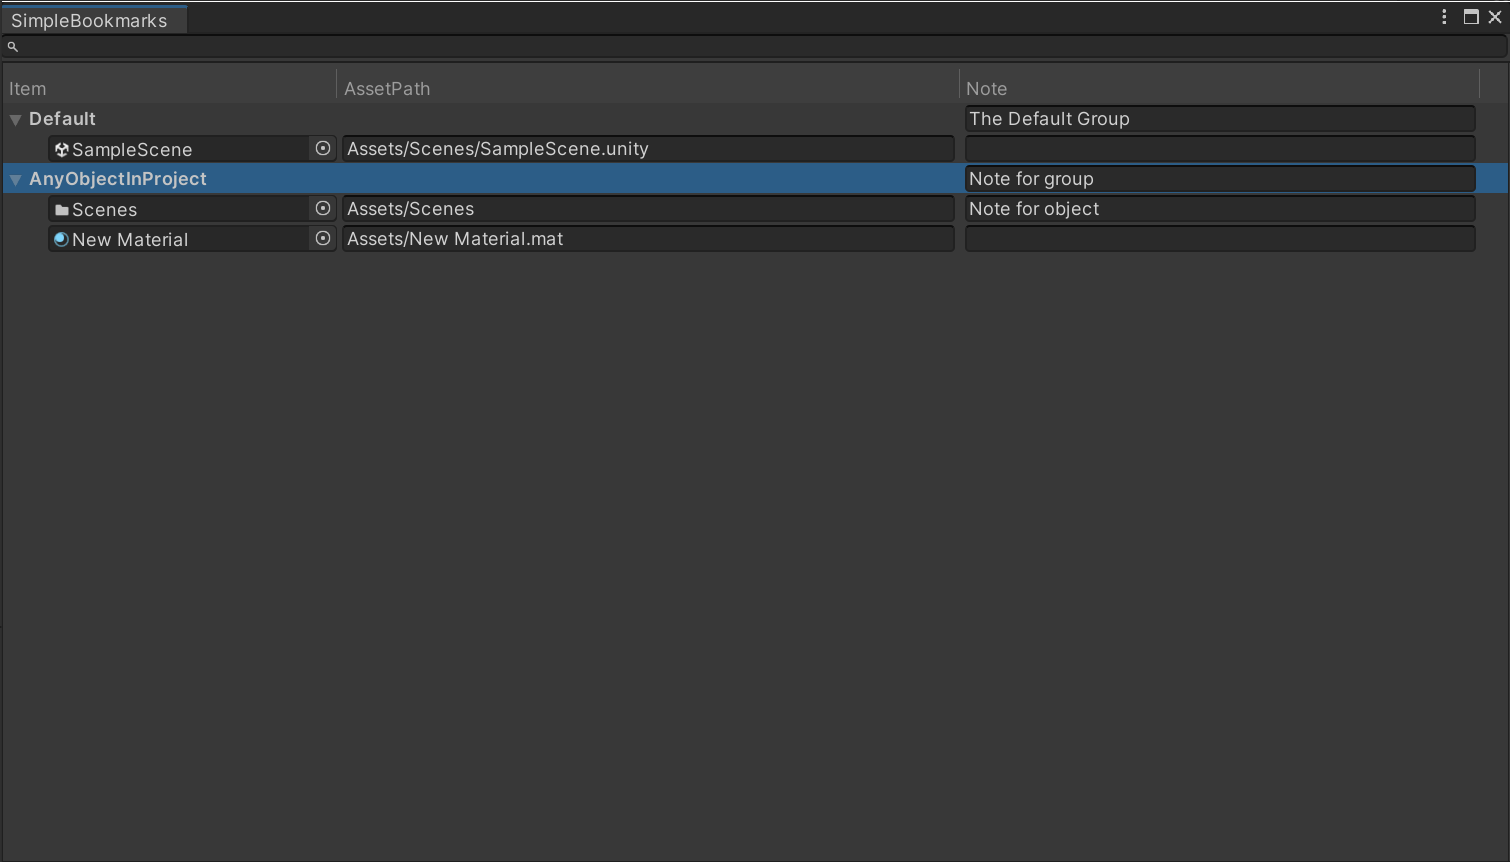
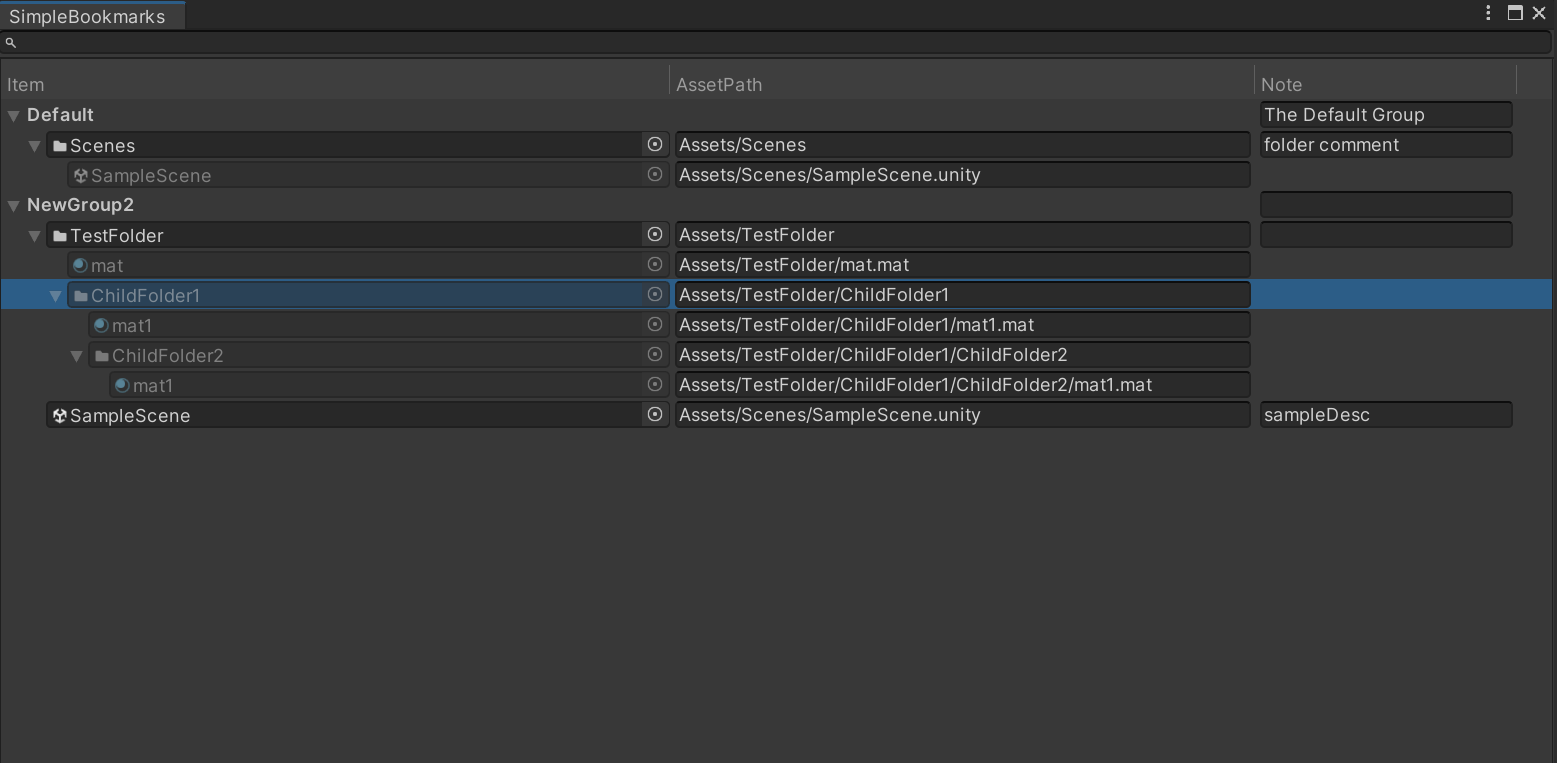
[Add] Display object recursively in saved folder.

diff --git a/Editor/BookmarksTreeview.cs b/Editor/BookmarksTreeview.cs
@@ -1,10 +1,13 @@
 using System;
 using System.Collections.Generic;
+using System.Diagnostics;
+using System.IO;
 using System.Linq;
 using System.Text.RegularExpressions;
 using UnityEditor;
 using UnityEditor.IMGUI.Controls;
 using UnityEngine;
+using Object = UnityEngine.Object;
 
 namespace SimpleBookmarks.Editor 
 {
@@ -106,7 +109,7 @@ namespace SimpleBookmarks.Editor
             
             foreach (var group in _bookmarksContainer.groups)
             {
-                var groupItem = new GroupViewItem() 
+                var groupItem = new GroupViewItem
                 {
                     id = group.GetHashCode(),
                     displayName = group.name,
@@ -117,17 +120,61 @@ namespace SimpleBookmarks.Editor
                 
                 foreach (var item in group.items)
                 {
-                    groupItem.AddChild(new ObjectViewItem()
+                    var objectViewItem = new ObjectViewItem
                     {
                         id = item.Obj ? item.Obj.GetInstanceID() : int.MinValue,
                         Data = item
-                    });
+                    };
+                    groupItem.AddChild(objectViewItem);
+
+                    var assetPath = AssetDatabase.GetAssetPath(item.Obj);
+                    if (AssetDatabase.IsValidFolder(assetPath))
+                    {
+                        AddFolderAssetsRecursive(objectViewItem, assetPath);
+                    }
                 }
             }
             
             SetupDepthsFromParentsAndChildren(root);
             
             return base.BuildRows(root);
+        }
+        
+        private void AddFolderAssetsRecursive(TreeViewItem parent, string folderPath)
+        {
+            var dir = new DirectoryInfo(folderPath);
+            var files = dir.GetFiles().Where(p=>!p.Extension.Equals(".meta"));
+            foreach (var f in files)
+            {
+                var p = Path.GetRelativePath($"{Application.dataPath}/../", f.FullName);
+                var obj = AssetDatabase.LoadAssetAtPath<Object>(p);
+                if (obj == null) 
+                    continue;
+                var viewItem = new SubObjectViewItem(obj)
+                {
+                    id = GUID.Generate().GetHashCode(),
+                    displayName = obj.name
+                };
+                parent.AddChild(viewItem);
+            }
+
+            var subDirs = dir.GetDirectories();
+            foreach (var d in subDirs)
+            {
+                var p = Path.GetRelativePath($"{Application.dataPath}/../", d.FullName);
+                if (!AssetDatabase.IsValidFolder(p))
+                    continue;
+                var folder = AssetDatabase.LoadAssetAtPath<DefaultAsset>(p);
+                if (folder == null) 
+                    continue;
+                var viewItem = new SubObjectViewItem(folder)
+                {
+                    id = folder.GetHashCode(),
+                    displayName = folder.name
+                };
+                parent.AddChild(viewItem);
+                AddFolderAssetsRecursive(viewItem, p);
+            }
         }
 
         protected override void SearchChanged(string newSearch)
@@ -170,7 +217,7 @@ namespace SimpleBookmarks.Editor
                 _bookmarksContainer.Save();
             }
         }
-
+        
         protected override void ContextClicked()
         {
             var genericMenu = new GenericMenu();
@@ -190,7 +237,7 @@ namespace SimpleBookmarks.Editor
             {
                 var path = $"{Application.dataPath}/../{BookmarksContainer.DataPath}";
 #if UNITY_EDITOR_WIN
-                System.Diagnostics.Process.Start("explorer.exe", $"/select,{path.Replace("/", "\\")}");
+                Process.Start("explorer.exe", $"/select,{path.Replace("/", "\\")}");
 #else
                 System.Diagnostics.Process.Start("open", $"{path}");
 #endif
@@ -245,13 +292,11 @@ namespace SimpleBookmarks.Editor
                     switch (columns)
                     {
                         case EColumns.Object:
-                        {
                             var objectRect = rect;
                             objectRect.x += indent;
                             objectRect.width = rect.width - indent;
                             EditorGUI.LabelField(objectRect, groupViewItem.Data.name, EditorStyles.boldLabel);
                             args.rowRect = rect;
-                        }
                             break;
                         case EColumns.Note:
                             groupViewItem.Data.note = EditorGUI.TextField(rect, groupViewItem.Data.note);
@@ -262,12 +307,10 @@ namespace SimpleBookmarks.Editor
                     switch (columns)
                     {
                         case EColumns.Object:
-                        {
                             var objectRect = rect;
                             objectRect.x += indent;
                             objectRect.width = rect.width - indent;
-                            objectViewItem.Data.Obj = EditorGUI.ObjectField(objectRect, objectViewItem.Data.Obj, typeof(UnityEngine.Object), false);
-                        }
+                            objectViewItem.Data.Obj = EditorGUI.ObjectField(objectRect, objectViewItem.Data.Obj, typeof(Object), false);
                             break;
                         case EColumns.AssetPath:
                             EditorGUI.SelectableLabel(rect, AssetDatabase.GetAssetPath(objectViewItem.Data.Obj), EditorStyles.textField);
@@ -275,8 +318,23 @@ namespace SimpleBookmarks.Editor
                         case EColumns.Note:
                             objectViewItem.Data.note = EditorGUI.TextField(rect, objectViewItem.Data.note);
                             break;
-                        default:
-                            throw new ArgumentOutOfRangeException(nameof(columns), columns, null);
+                    }
+                    break;
+                case SubObjectViewItem objectViewItem:
+                    switch (columns)
+                    {
+                        case EColumns.Object:
+                            var objectRect = rect;
+                            objectRect.x += indent;
+                            objectRect.width = rect.width - indent;
+                            var oriGUIEnable = GUI.enabled;
+                            GUI.enabled = false;
+                            EditorGUI.ObjectField(objectRect, objectViewItem.Object, typeof(Object), false);
+                            GUI.enabled = oriGUIEnable;
+                            break;
+                        case EColumns.AssetPath:
+                            EditorGUI.SelectableLabel(rect, AssetDatabase.GetAssetPath(objectViewItem.Object), EditorStyles.textField);
+                            break;
                     }
                     break;
             }
@@ -288,7 +346,8 @@ namespace SimpleBookmarks.Editor
         
         protected override bool CanStartDrag(CanStartDragArgs args)
         {
-            return !hasSearch;
+            var hasSubObjectViewItem = args.draggedItemIDs.Any(id => FindItem(id, rootItem) is SubObjectViewItem);
+            return !hasSearch && !hasSubObjectViewItem;
         }
 
         protected override void SetupDragAndDrop(SetupDragAndDropArgs args)
@@ -346,7 +405,7 @@ namespace SimpleBookmarks.Editor
                                 {
                                     foreach (var obj in DragAndDrop.objectReferences)
                                     {
-                                        if (g.items[i].Equals(new Item() { Obj = obj }))
+                                        if (g.items[i].Equals(new Item { Obj = obj }))
                                             g.items.RemoveAt(i);
                                     }
                                 }
@@ -369,7 +428,7 @@ namespace SimpleBookmarks.Editor
                                 for (var i = 0; i < DragAndDrop.objectReferences.Length; i++)
                                 {
                                     var preferIndex = GetPreferIndex(parentItem.Data.items, insertIndex + i);
-                                    parentItem.Data.items.Insert(preferIndex, new Item() { Obj = DragAndDrop.objectReferences[i] });
+                                    parentItem.Data.items.Insert(preferIndex, new Item { Obj = DragAndDrop.objectReferences[i] });
                                 }
                             }
                         }
@@ -378,7 +437,7 @@ namespace SimpleBookmarks.Editor
                             if (dragFromTreeView)
                                 parentItem.Data.items.AddRange(draggedItems);
                             else
-                                parentItem.Data.items.AddRange(DragAndDrop.objectReferences.Select(o=> new Item(){Obj = o}));
+                                parentItem.Data.items.AddRange(DragAndDrop.objectReferences.Select(o=> new Item {Obj = o}));
                         }
                         
                         _bookmarksContainer.Save();
@@ -407,8 +466,8 @@ namespace SimpleBookmarks.Editor
             return treeViewItem switch
             {
                 GroupViewItem groupViewItem => groupViewItem,
-                ObjectViewItem objectViewItem => objectViewItem.parent as GroupViewItem,
-                _ => (GroupViewItem)GetRows()[0]
+                null => (GroupViewItem)GetRows()[0],
+                _ => GetParentViewItem(treeViewItem.parent)
             };
         }
 
@@ -454,5 +513,15 @@ namespace SimpleBookmarks.Editor
     public class ObjectViewItem : TreeViewItem
     {
         internal Item Data;
+    }
+    
+    public class SubObjectViewItem : TreeViewItem
+    {
+        internal readonly Object Object;
+
+        internal SubObjectViewItem(Object obj)
+        {
+            Object = obj;
+        }
     }
 }

diff --git a/Editor/BookmarksContainer.cs b/Editor/BookmarksContainer.cs
@@ -124,7 +124,10 @@ namespace SimpleBookmarks.Editor
             var path = AssetDatabase.GUIDToAssetPath(objectGuid);
             if (string.IsNullOrEmpty(path))
                 Debug.LogError($"{objectGuid} is not a valid Guid. Note:{note}");
-            Obj = AssetDatabase.LoadAssetAtPath<UnityEngine.Object>(path);
+            if (AssetDatabase.IsValidFolder(path)) 
+                Obj = AssetDatabase.LoadAssetAtPath<DefaultAsset>(path);
+            else 
+                Obj = AssetDatabase.LoadAssetAtPath<UnityEngine.Object>(path);
         }
     }
 }

diff --git a/CHANGELOG.md b/CHANGELOG.md
@@ -5,6 +5,12 @@ All notable changes to this project will be documented in this file.
 The format is based on [Keep a Changelog](https://keepachangelog.com/en/1.0.0/),
 and this project adheres to [Semantic Versioning](https://semver.org/spec/v2.0.0.html).
 
+## [0.1.2] - 2023-10-02
+
+### Added
+
+- Display object recursively in saved folder.
+
 ## [0.1.1] - 2023-08-19
 
 ### Changed
